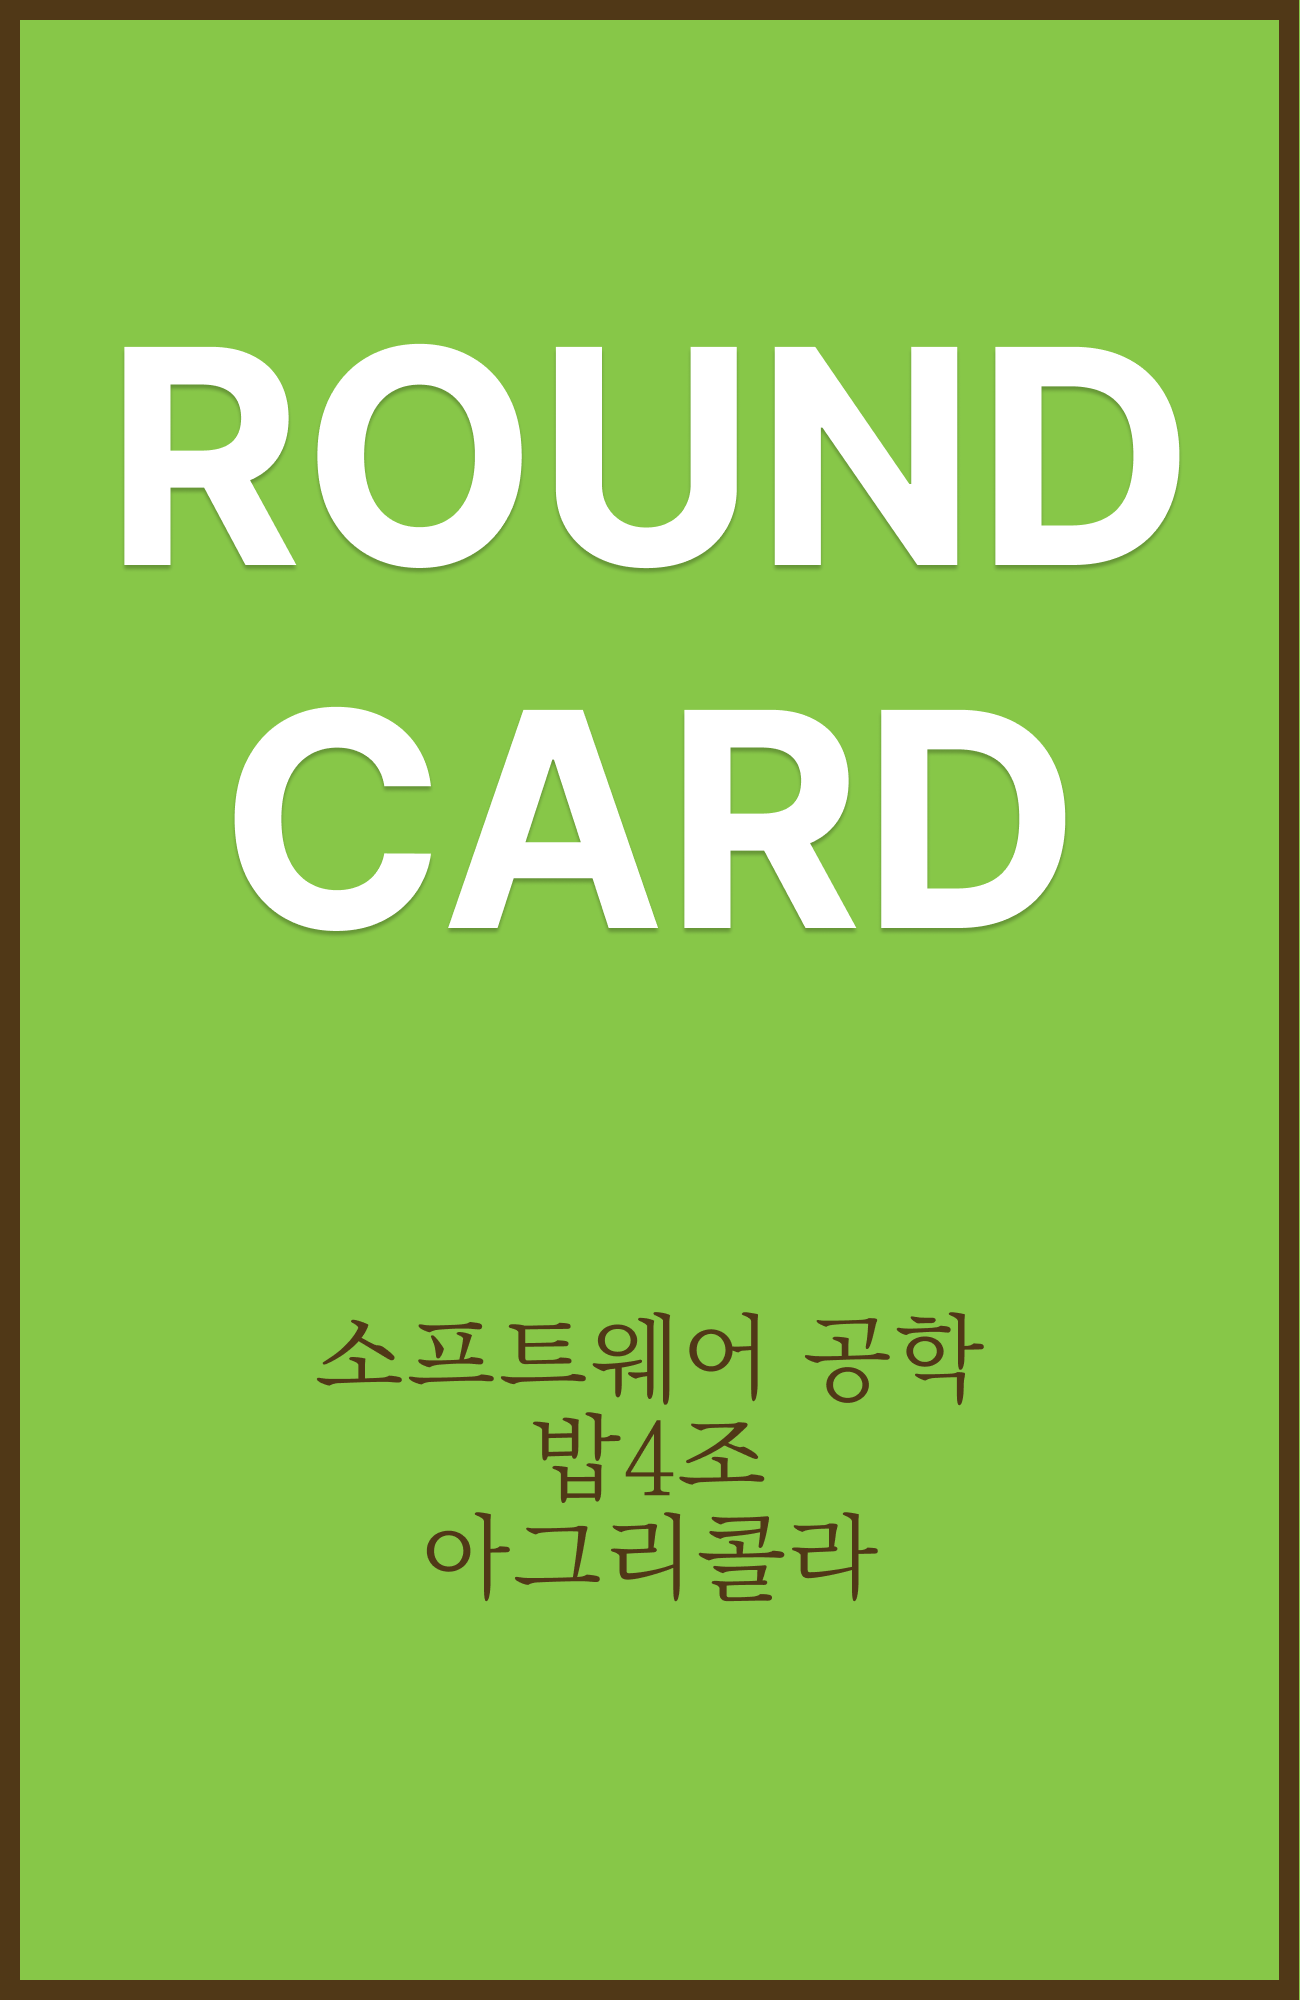
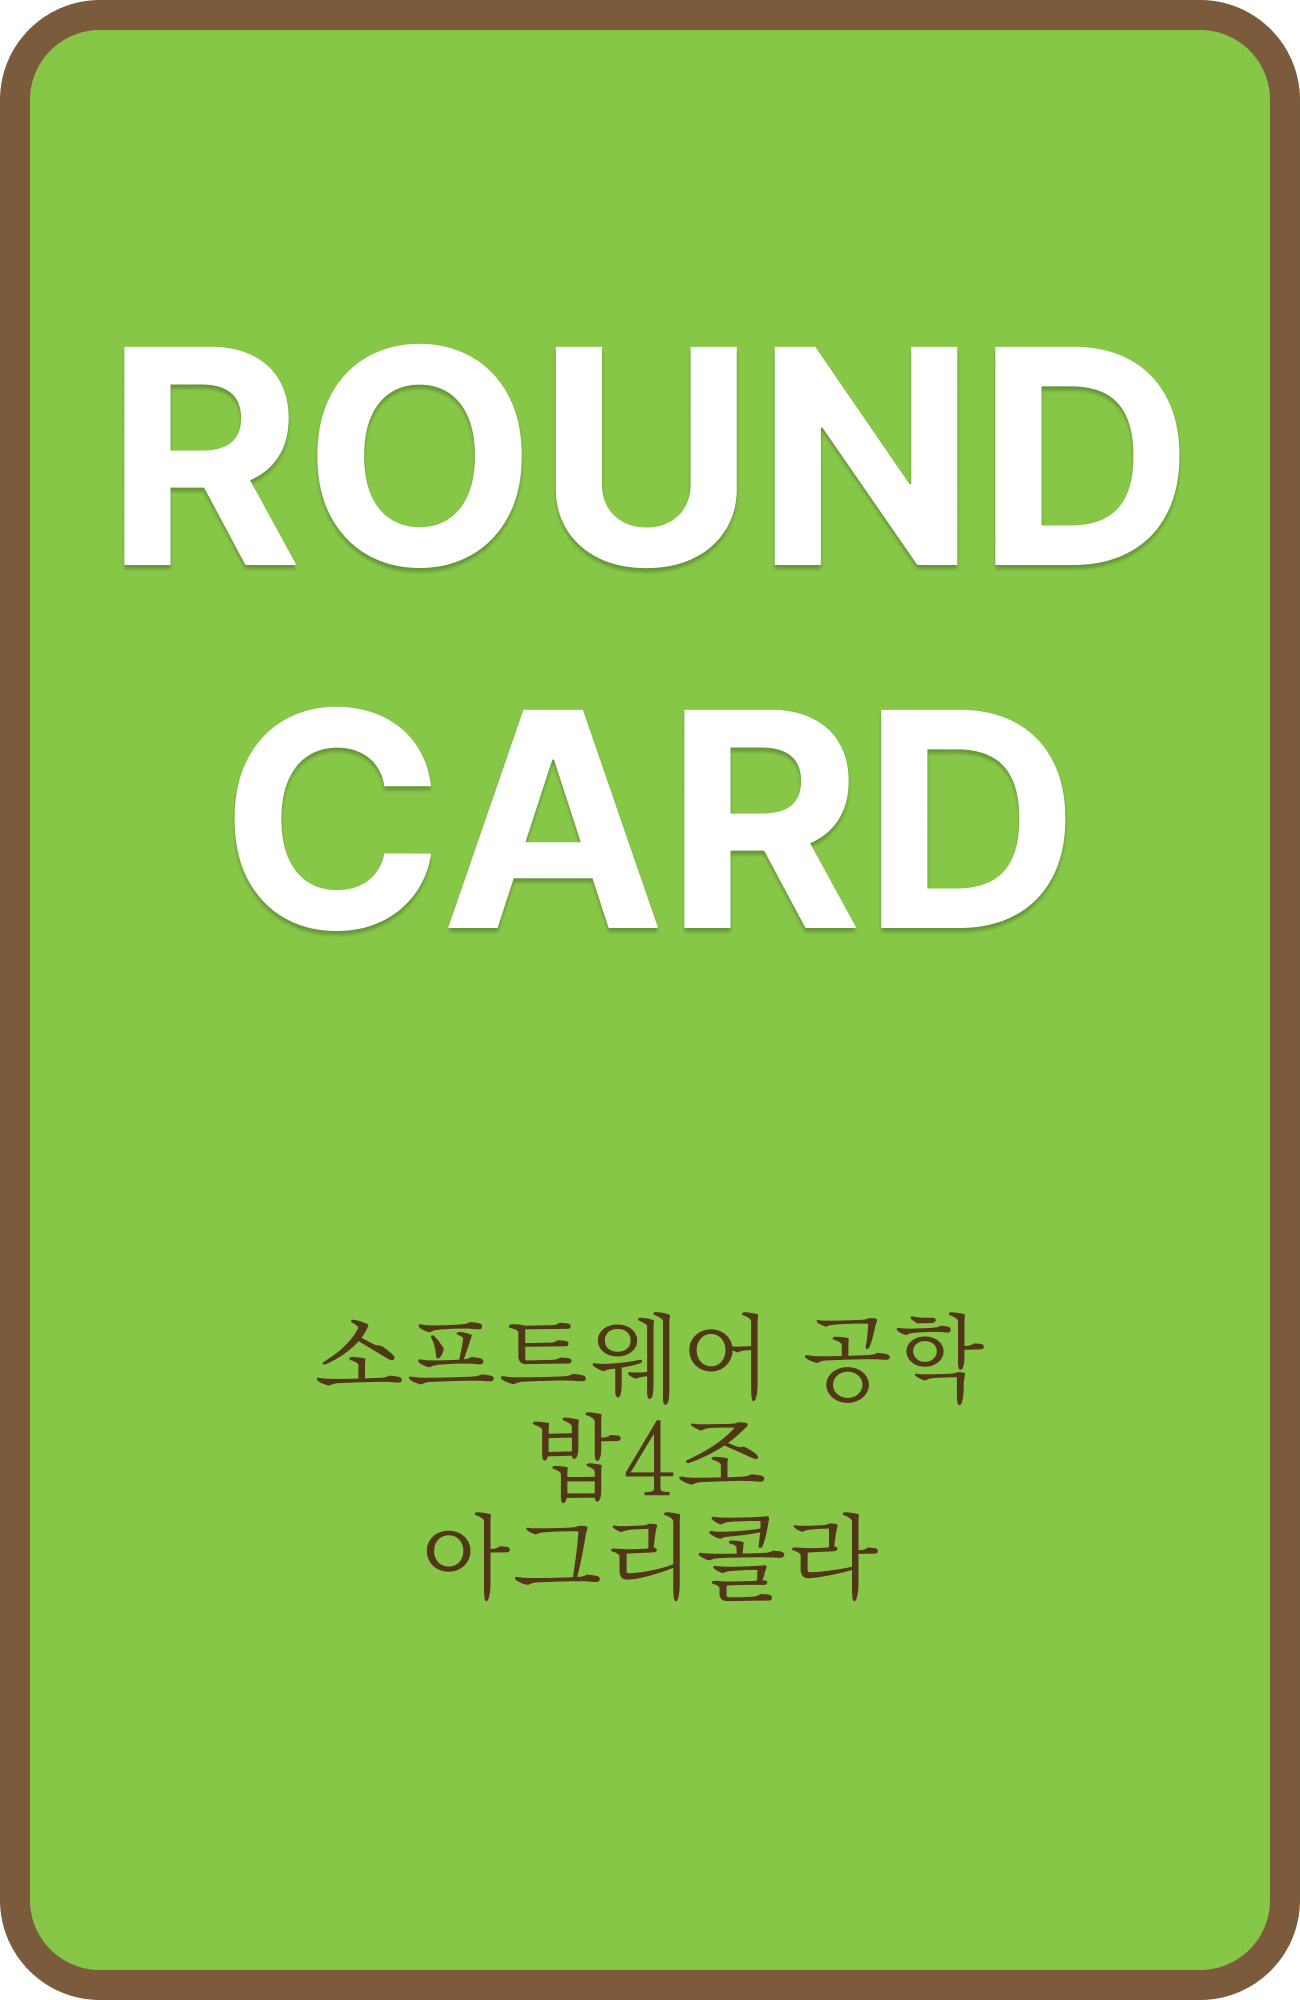
[DESIGN]이미지디자인 변경

Changed region(s): [[0.0, 0.0, 1.0, 1.0]]

diff --git a/agricola/src/views/boards/ActionBoard.js b/agricola/src/views/boards/ActionBoard.js
@@ -10,8 +10,8 @@ const ActionBoard = () => {
  
   return (
     <Box
-      height={590}
-      width={400}
+      height={420}
+      width={700}
       my={4}
       display="flex"
       alignItems="center"
@@ -19,9 +19,9 @@ const ActionBoard = () => {
       p={2}
       sx={{ border: '2px solid grey' }}
     >
-      <Grid container spacing={{ xs: 2, md: 3 }} columns={{ xs: 4, sm: 8, md: 12 }}>
+      <Grid container spacing={{ xs: 2, md: 3 }} columns={5}>
         {Array.from(Array(14)).map((_, index) => (
-          <Grid item xs={2} sm={4} md={4} key={index}>
+          <Grid item xs={3} sm={1} md={1} key={index}>
             <ActionCard  number={index+1} index={index} />
             </Grid>
         ))}

diff --git a/agricola/src/views/boards/RoundBoard.js b/agricola/src/views/boards/RoundBoard.js
@@ -27,16 +27,17 @@ const RoundBoard = ({ cardCount, row }) => {
 
   return (
     <Box
-      height={590}
-      width={700}
+      height={420}
+      width={650}
       my={4}
+      mx={-3}
       display="flex"
       alignItems="center"
       gap={4}
       p={2}
       sx={{ border: '2px solid grey' }}
     >
-      <div className="placeholder" style={{ gridTemplateColumns: `repeat(${row}, 150px)` }}>
+      <div className="placeholder" style={{ gridTemplateColumns: `repeat(${row}, 130px)` }}>
           {cards.map((card, index) => (
             <RoundCard
               key={index}

diff --git a/agricola/src/views/boards/MajorBoard.js b/agricola/src/views/boards/MajorBoard.js
@@ -12,7 +12,7 @@ const MajorBoard = () => {
   return (
     <Box
       height={420}
-      width={540}
+      width={480}
       my={4}
       display="flex"
       alignItems="center"
